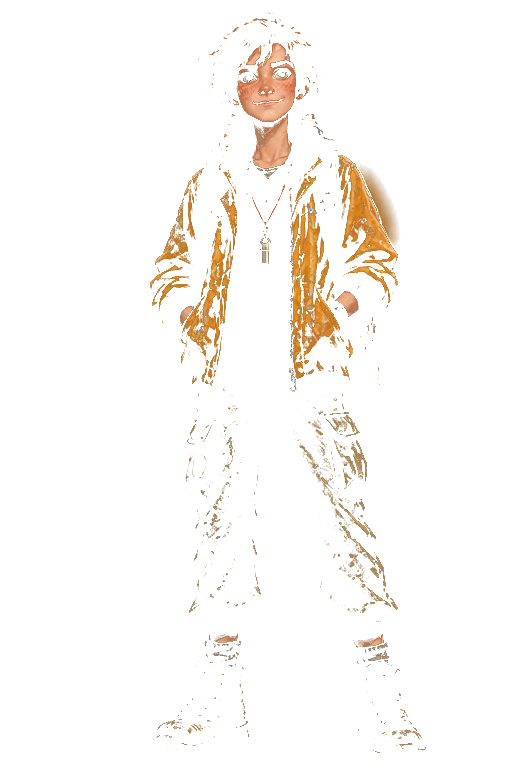
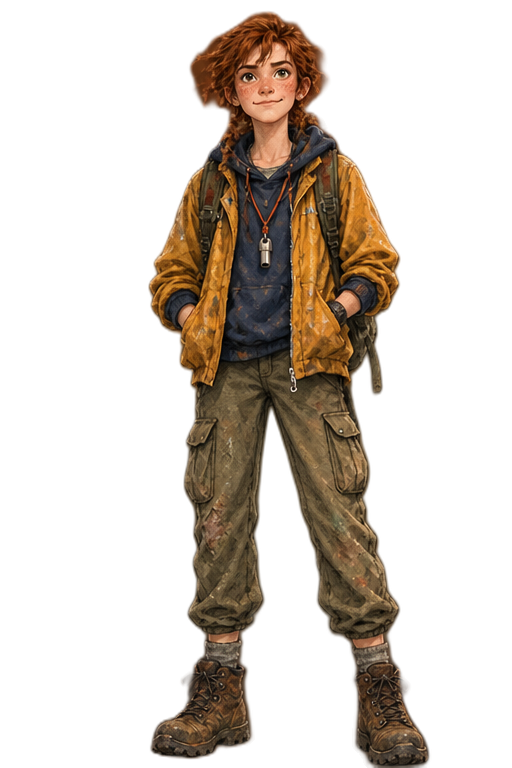
Repair Nightwood character alpha masks

Changed region(s): [[0.2812, 0.0, 0.8438, 1.0]]

diff --git a/Projects/novels-les-zabyvshiy-tropy/Art/AlphaRepair/apply_character_masks.py b/Projects/novels-les-zabyvshiy-tropy/Art/AlphaRepair/apply_character_masks.py
@@ -1,0 +1,104 @@
+#!/usr/bin/env python3
+"""Apply reviewed per-character masks without changing any RGB pixels."""
+
+from __future__ import annotations
+
+import hashlib
+import json
+from pathlib import Path
+
+import numpy as np
+from PIL import Image, ImageDraw
+
+
+ART_DIR = Path(__file__).resolve().parent
+STORY_DIR = ART_DIR.parents[1]
+CHARACTERS_DIR = STORY_DIR / "Assets" / "Characters"
+MASKS_DIR = ART_DIR / "masks"
+
+CHARACTERS = {
+    "maincharacter": CHARACTERS_DIR / "maincharacter/view/whole/fieldcoat",
+    "asya": CHARACTERS_DIR / "ася/view/whole/forester",
+    "lada": CHARACTERS_DIR / "лада/view/whole/ringcoat",
+    "filya": CHARACTERS_DIR / "филя/view/whole/windbreaker",
+    "yar": CHARACTERS_DIR / "яр/view/whole/trailjacket",
+}
+
+
+def sha256(path: Path) -> str:
+    return hashlib.sha256(path.read_bytes()).hexdigest()
+
+
+def main() -> None:
+    report: dict[str, object] = {
+        "method": "reviewed per-character alpha mask; original RGB preserved byte-for-byte after decode",
+        "characters": {},
+    }
+    proof = Image.new("RGB", (1024, 768 * len(CHARACTERS)), (0, 0, 0))
+    draw = ImageDraw.Draw(proof)
+    variants_proof = Image.new("RGB", (1024, 384 * len(CHARACTERS)), (0, 0, 0))
+    variants_draw = ImageDraw.Draw(variants_proof)
+
+    for row, (selector, directory) in enumerate(CHARACTERS.items()):
+        entries = []
+        image_paths = sorted(directory.glob("*.png"))
+        for column, image_path in enumerate(image_paths):
+            mask_path = MASKS_DIR / f"{selector}__{image_path.stem}.png"
+            mask = Image.open(mask_path).convert("L")
+            if mask.size != (512, 768):
+                raise ValueError(f"Unexpected mask dimensions: {mask_path} {mask.size}")
+            before = Image.open(image_path).convert("RGBA")
+            before_pixels = np.asarray(before).copy()
+            if before.size != mask.size:
+                raise ValueError(f"Unexpected sprite dimensions: {image_path} {before.size}")
+            before_hash = sha256(image_path)
+            repaired = before.copy()
+            repaired.putalpha(mask)
+            repaired.save(image_path, optimize=True)
+            after_pixels = np.asarray(Image.open(image_path).convert("RGBA"))
+            if not np.array_equal(before_pixels[:, :, :3], after_pixels[:, :, :3]):
+                raise RuntimeError(f"RGB changed while repairing {image_path}")
+            entries.append({
+                "file": image_path.name,
+                "mask": str(mask_path.relative_to(STORY_DIR)),
+                "before_sha256": before_hash,
+                "after_sha256": sha256(image_path),
+                "rgb_preserved": True,
+            })
+            preview = repaired.resize((256, 384), Image.Resampling.LANCZOS)
+            background = (28, 31, 35) if column % 2 == 0 else (238, 238, 234)
+            composed = Image.new("RGBA", preview.size, background + (255,))
+            composed.alpha_composite(preview)
+            variants_proof.paste(composed.convert("RGB"), (column * 256, row * 384))
+            variants_draw.text(
+                (column * 256 + 6, row * 384 + 6),
+                f"{selector}/{image_path.stem}",
+                fill=(255, 70, 70),
+            )
+
+        neutral = Image.open(directory / "main.png").convert("RGBA")
+        for column, background in enumerate(((28, 31, 35), (238, 238, 234))):
+            composed = Image.new("RGBA", neutral.size, background + (255,))
+            composed.alpha_composite(neutral)
+            proof.paste(composed.convert("RGB"), (column * 512, row * 768))
+        draw.text((8, row * 768 + 8), selector, fill=(255, 70, 70))
+        neutral_mask_path = MASKS_DIR / f"{selector}__main.png"
+        alpha = np.asarray(Image.open(neutral_mask_path).convert("L"))
+        report["characters"][selector] = {
+            "neutral_mask": str(neutral_mask_path.relative_to(STORY_DIR)),
+            "alpha_min": int(alpha.min()),
+            "alpha_max": int(alpha.max()),
+            "alpha_mean": float(alpha.mean()),
+            "variants": entries,
+        }
+
+    proof.save(ART_DIR / "dark-light-proof.png", optimize=True)
+    variants_proof.save(ART_DIR / "all-variants-proof.png", optimize=True)
+    (ART_DIR / "repair-report.json").write_text(
+        json.dumps(report, ensure_ascii=False, indent=2) + "\n",
+        encoding="utf-8",
+    )
+
+
+if __name__ == "__main__":
+    main()

diff --git a/Projects/novels-les-zabyvshiy-tropy/Art/ACCEPTANCE_EVIDENCE.md b/Projects/novels-les-zabyvshiy-tropy/Art/ACCEPTANCE_EVIDENCE.md
@@ -1,6 +1,17 @@
 # Acceptance evidence
 
-Status: **blocked** — runtime launch succeeds, but the character-alpha visual gate fails.
+Status: **revalidation pending** — the source character-alpha blocker is repaired; a fresh Unity/Android visual gate is required before acceptance.
+
+## Character alpha repair — 2026-09-10
+
+- Replaced destructive sparse alpha with 20 reviewed, pose-specific foreground masks; no generated replacement RGB was used.
+- Verified all 20 production PNGs retain decoded RGB pixels exactly against the pre-repair Git revision.
+- Preserved every `512×768` canvas, selector/outfit/state path and Unity `.meta` GUID.
+- Reviewed the five neutral identities on both dark and light backgrounds in `AlphaRepair/dark-light-proof.png`.
+- Reviewed every expression/pose on alternating dark and light backgrounds in `AlphaRepair/all-variants-proof.png`; the intentional translucent `яр/fading` treatment remains contained inside a coherent silhouette.
+- Reproduction data and per-file hashes are recorded in `AlphaRepair/repair-report.json`; the deterministic alpha-only applicator is `AlphaRepair/apply_character_masks.py`.
+- Fresh Android content-gate passed after the repair (`content-gate-20260910T085729Z.log`).
+- Fresh Embedded Player validation is still pending: the first build attempt reached signing and failed because release passwords were unavailable; the authorized test-signing retry was stopped at the user's request after Unity Licensing failed again. The older APK and its screenshots are not claimed as evidence for the repaired package.
 
 ## Android gate — 2026-09-10
 
@@ -15,13 +26,13 @@ Status: **blocked** — runtime launch succeeds, but the character-alpha visual 
 
 The first runtime frame exposed dark-brown text on a dark-blue story-local Bubble. Six dialogue text states were changed to a light cold tone. A later long line exposed `32px` overflow; all dialogue text states were restored to the established `22px` size while the distinct choice-button size remained unchanged. The final `dialogue-readable.png` proves the long sampled line is readable and contained.
 
-## Blocking finding
+## Superseded blocking finding
 
 At least Asya's runtime whole-character sprite has destructive internal transparency: face, hands and scattered highlights remain while most dark clothing/body pixels disappear and the location shows through. The source inventory confirms this is not a Unity selector fallback: the intended selector resolves, but the imported PNG alpha is sparse (`main.png`: 380,187 fully transparent pixels of 393,216; mean alpha approximately 6.8/255). The same source-generation pattern is present across the 20 character PNGs, with mean alpha approximately 4.0–118.4/255, so the package must be treated as affected until every used variant passes light/dark alpha proofs.
 
 Expected: one coherent, opaque whole-character silhouette with transparency only outside the character. Actual: large holes inside the body and clothing. Evidence: `Acceptance/20260910-android/character-alpha-failure.png` and the production PNGs under `Assets/Characters/`.
 
-The built-in background-extraction edit was attempted for the neutral Asya master but returned HTTP 429 before producing an artifact. No unsafe opaque rectangle, unrelated fallback, or identity-changing replacement was substituted. Per `CharacterLayeringRules.md` and the acceptance skill this blocks acceptance and further route/endings claims.
+This source finding is repaired by the pose-specific alpha package above. No unsafe opaque rectangle, unrelated fallback, or identity-changing replacement was substituted. Runtime evidence below remains historical and must not be reused as proof of the repaired sprites.
 
 ## Preserved evidence
 
@@ -32,4 +43,4 @@ The built-in background-extraction edit was attempted for the neutral Asya maste
 - Story Android log: `Novels/Build/Logs/automation/content-gate-20260910T075524Z.log`
 - Player log: `Novels/Build/Logs/automation/player-20260910T075548Z.log`
 
-Next required owner: `$somegame-create-character` together with `$imagegen`. Repair the neutral identity/outfit masters and every used variant as true transparent cutouts while preserving selector paths and `.meta` GUIDs; generate full-body/face contact sheets plus light/dark alpha proofs. After that material art change, repeat a freshly authorized exact-story Unity/Android gate and the planned episode/choice/ending matrix. The story must not be marked accepted before those checks pass.
+Next required step after Unity Licensing is healthy: build a fresh test-signed Embedded Player, capture a repaired character in Player, and then execute the planned episode/choice/ending matrix. The story must not be marked accepted before those checks pass.

diff --git a/Projects/novels-les-zabyvshiy-tropy/Art/CHARACTER_HANDOFF.md b/Projects/novels-les-zabyvshiy-tropy/Art/CHARACTER_HANDOFF.md
@@ -12,8 +12,10 @@ Technical correction (2026-09-07): Nika's selector is `maincharacter`, as requir
 | Лада | round observant face, ash bob, slight child silhouette, mist raincoat with tree rings | main, curious, sad, luminous |
 | Яр | lean young hiker, wavy dark hair, faded blue jacket, red thread | main, fading, hopeful, exhausted |
 
-Provenance: each four-state sheet was generated as one identity-preserving image, then deterministically cropped; dark studio matte was keyed to transparent alpha. Files retain no third-party source material. Alpha is present, but edge quality and exact in-game scale remain a deferred Player visual gate.
+Provenance: each four-state sheet was generated as one identity-preserving image, then deterministically cropped; files retain no third-party source material.
+
+Alpha repair (2026-09-10): the original keyed alpha was found to erase dark costume and body pixels. Each of the 20 pose/expression PNGs now has its own reviewed foreground mask. The repair preserved every decoded RGB pixel exactly against the pre-repair Git revision, preserved all dimensions, paths and `.meta` GUIDs, and changed alpha only. Reproducible masks, per-file hashes and both neutral dark/light and all-variant proofs are stored in `AlphaRepair/`.
 
 Originality iteration 1: compared facial construction, silhouettes, costume structure, palettes, accessories and pose language against generic ranger/adventure archetypes available from model knowledge; no direct visual search was available. Genre-functional boots, coats, packs and compass are non-distinctive. The combined red promise cord, blank-map cartography, tree-ring raincoat and five-way restrained palette is original in this package. Risk low; confidence medium; limitation: no reverse-image search. Gate: `passed`.
 
-Runtime audit: every Ink `(outfit, state)` pair resolves to a produced file; fallback `main` exists for each outfit. Contact sheets are preserved by shared generation provenance outside the repository; final files are individual PNGs. Required light/dark alpha proofs, feet, gaze and screen composition remain for the authorized final slot.
+Runtime audit: every Ink `(outfit, state)` pair resolves to a produced file; fallback `main` exists for each outfit. `AlphaRepair/dark-light-proof.png` verifies all five neutral full bodies on both required backgrounds, and `AlphaRepair/all-variants-proof.png` verifies all 20 pose-specific cutouts. Feet, props and intended gaze remain present. Exact screen composition remains for the authorized Player visual gate.

diff --git a/Projects/novels-les-zabyvshiy-tropy/Art/AlphaRepair/README.md b/Projects/novels-les-zabyvshiy-tropy/Art/AlphaRepair/README.md
@@ -1,0 +1,21 @@
+# Character alpha repair
+
+The twenty reviewed, pose-specific masks in `masks/` replace destructive sparse
+alpha in all twenty character variants. The repair changes alpha only: decoded RGB pixels,
+character identity, pose, costume, expression artwork, dimensions, filenames,
+and Unity `.meta` files remain unchanged.
+
+Masks were initialized with local human-portrait segmentation, reduced to the
+single connected character component to remove detached background artifacts,
+and reviewed on both `#1c1f23` and `#eeeeea` in `dark-light-proof.png`.
+Every expression is shown in `all-variants-proof.png` on alternating dark and
+light backgrounds.
+
+Run from the repository root with the bundled Pillow/NumPy Python runtime:
+
+```sh
+python3 Projects/novels-les-zabyvshiy-tropy/Art/AlphaRepair/apply_character_masks.py
+```
+
+The script fails if any source RGB pixel changes and writes per-file hashes to
+`repair-report.json`.
